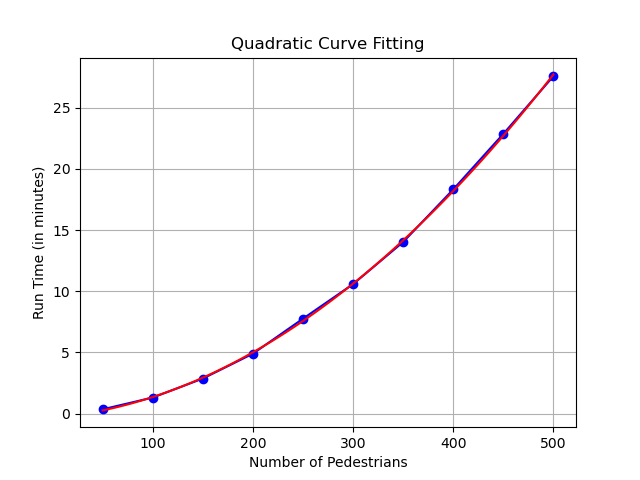
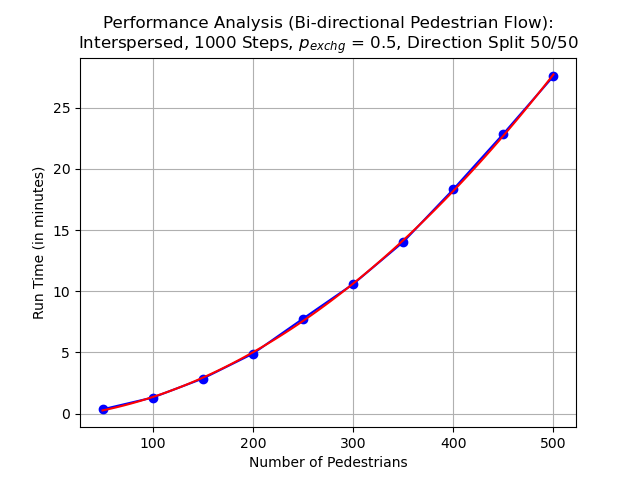
updated docs

Changed region(s): [[0.125, 0.0312, 0.9062, 0.125]]

diff --git a/scaling_peds.py b/scaling_peds.py
@@ -109,22 +109,22 @@ plt.ylabel('Run Time (in minutes)')
 plt.title('Performance Analysis (Bi-directional Pedestrian Flow):\nInterspersed, 1000 Steps, $p_{exchg}$ = 0.5, Direction Split 50/50')
 plt.grid(True)
 
-# # Define the quadratic function to fit the data (y = ax^2 + bx + c)
-# def quadratic_function(x, a, b, c):
-#     return a * x**2 + b * x + c
+# Define the quadratic function to fit the data (y = ax^2 + bx + c)
+def quadratic_function(x, a, b, c):
+    return a * x**2 + b * x + c
 
-# # Perform curve fitting to find the coefficients (a, b, c)
-# popt, _ = curve_fit(quadratic_function, pedVStime['pedCount'], pedVStime['runTime']/60)
+# Perform curve fitting to find the coefficients (a, b, c)
+popt, _ = curve_fit(quadratic_function, pedVStime['pedCount'], pedVStime['runTime']/60)
 
-# # Extract the coefficients (a, b, c)
-# a_fit, b_fit, c_fit = popt
+# Extract the coefficients (a, b, c)
+a_fit, b_fit, c_fit = popt
 
-# # Generate points for the fitted curve using the quadratic function
-# x_fit = np.linspace(min(pedVStime['pedCount']), max(pedVStime['pedCount']), 100)
-# y_fit = quadratic_function(x_fit, a_fit, b_fit, c_fit)
+# Generate points for the fitted curve using the quadratic function
+x_fit = np.linspace(min(pedVStime['pedCount']), max(pedVStime['pedCount']), 100)
+y_fit = quadratic_function(x_fit, a_fit, b_fit, c_fit)
 
-# # Plot the fitted quadratic curve
-# plt.plot(x_fit, y_fit, label='Fitted Curve', color='red')
+# Plot the fitted quadratic curve
+plt.plot(x_fit, y_fit, label='Fitted Curve', color='red')
 
 # # Add labels and title
 # plt.title('Quadratic Curve Fitting')

diff --git a/docs/source/user-guide.md b/docs/source/user-guide.md
@@ -209,8 +209,6 @@ env = gym.make('[id of your registered PedestrianEnv environment]')
 This environment models a grid that wraps PedestrianEnv for behavior simulation involving both pedestrians and vehicles. MultiLaneRoadEnv supports pedestrians and vehicles as dynamic agents and sidewalks, crosswalks, and one road with multiple lanes as static objects. Dynamic agents may be added or removed any time during simulation; however, static objects are not designed to be removed.
 
 ### Action Space
-Remains the same as PedestrianEnv, with the exception of VehicleAction.KEEP.
-
 PedGrid utilizes **_Action_** objects with properties _agent_ with the agent reference and _action_ as an enum. Three enum classes define dynamic agent movement in MultiLaneRoadEnv.
 * LaneAction
     * .KEEP: agent keeps the current lane

diff --git a/docs/source/dev-guide.md b/docs/source/dev-guide.md
@@ -1,1 +1,7 @@
 # Developer Guide
+
+## Developing new objects
+All objects, static and dynamic, derive from the BaseObject class. When creating a new object, you may either inherit directly from the BaseObject class or from an existing child class such as PedAgent or Vehicle.
+
+### Color Visualization
+The ObjectColors class defines all object colors for visualization when rendering in the grid. As desired, object colors can be changed or added.
